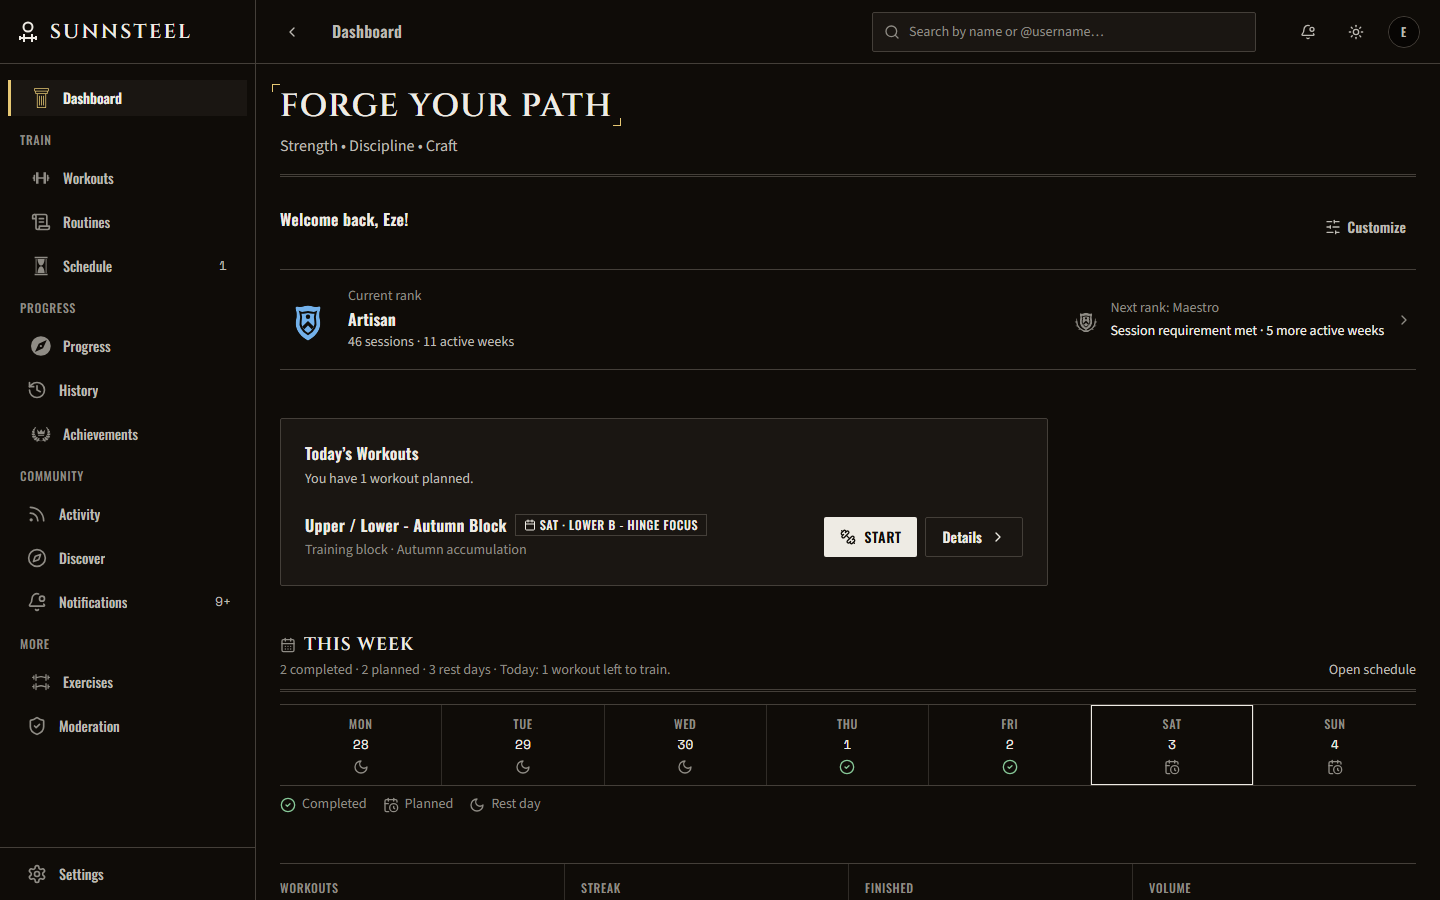
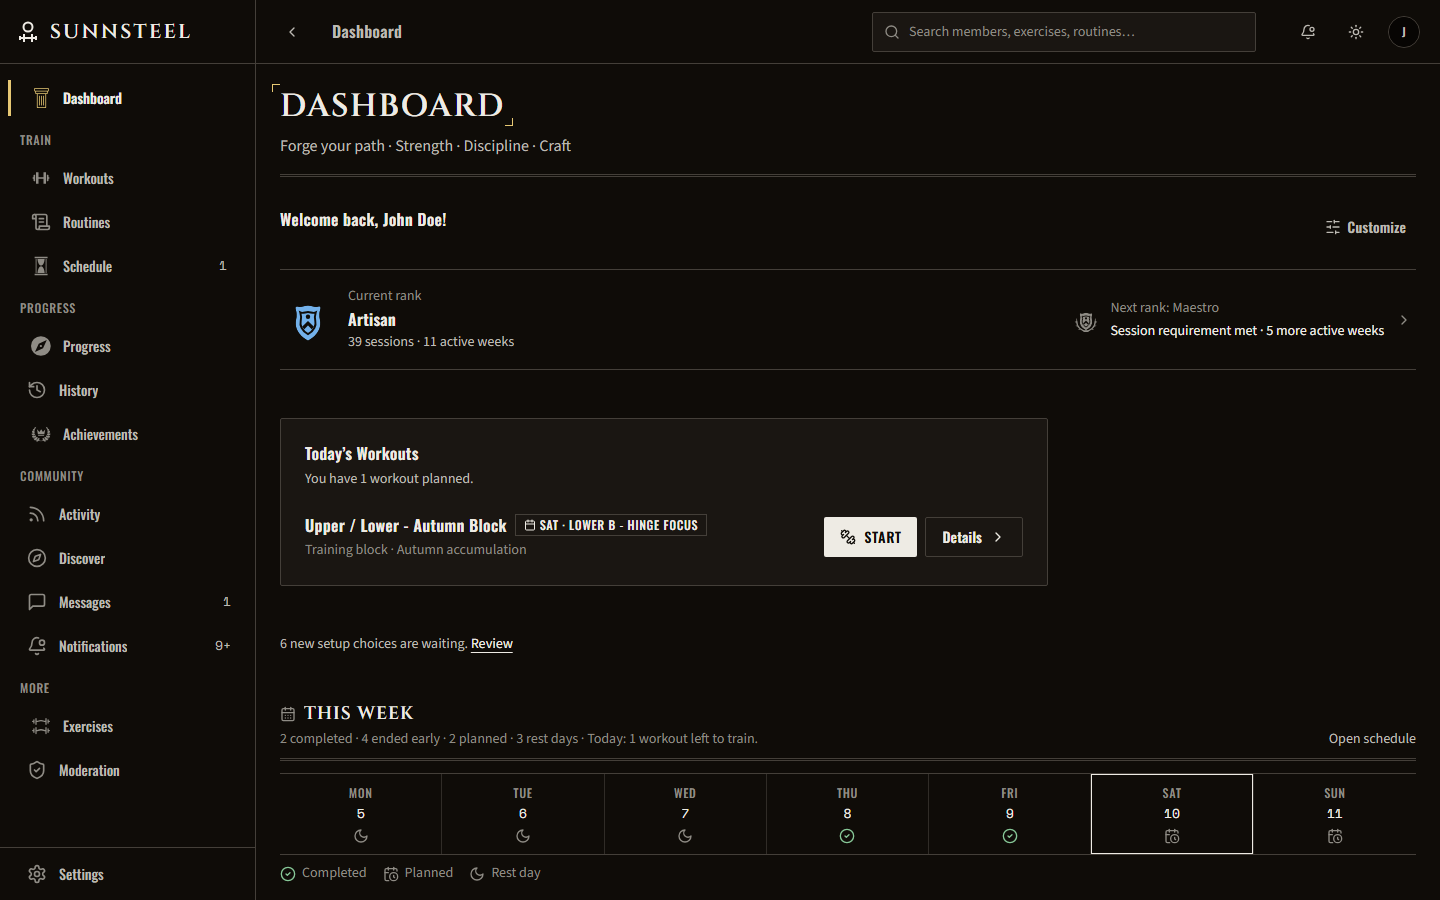
docs(roadmap): ship UX-25 and release its claim; recapture its frames

diff --git a/docs/roadmaps/product-roadmap.md b/docs/roadmaps/product-roadmap.md
@@ -79,7 +79,6 @@ else until it merges, so claims live here, on `main`.
 
 | ID      | Status        | Owner  | Branch / worktree | Claimed    | Repositories |
 | ------- | ------------- | ------ | ----------------- | ---------- | ------------ |
-| UX-25 | `IN_PROGRESS` | Claude | `claude/ux-25` (`.claude-worktrees/ux-25-fe`) | 2026-10-09 | FE |
 
 ## Current product snapshot
 
@@ -689,7 +688,7 @@ languages, and Spanish runs longer.
 | UX-23 | `SHIPPED`     | S    | Compact profile header on a phone | Shipped 2026-10-07, design system [§24.7](../ui-design-system.md). Below a 600px header the rank-decorated profile header is compact: a 64px portrait with its ornament and margins scaled to it, Share as an icon that keeps its accessible name, and on your own profile Share beside the portrait so the counts are the column's last row. The handle and the join date share a line at every width. Measured on the owner's profile at 390: Initiate 344 → 243px up to Laureate 502 → 387px; Artisan, the owner's rank, 424 → 313px. Every rank was checked at 320 and 390 by rewriting the rank in the profile read, with no text or control touching a corner ornament (Artisan and Maestro needed extra room under the counts), plus 768, 1024 and 1440, the light theme and Spanish at 320, and a member's profile at 320. Sweep: `layout profile`, 14/14. **Not changed:** a member's header still wraps Follow, Message, the partner action and the menu onto several rows at 320. **Not verified:** `npm run verify` locally, because the dev server was running; CI runs it on the push. | ACH-11 |
 | UX-24 | `SHIPPED`     | M    | Design foundations from the 2026-10 audit | Shipped 2026-10-08 from the owner-approved [UI/UX audit](../ui-audit-2026-10.md) §11 Phase A. `StatusMark` ([status-mark.tsx](../../components/ui/status-mark.tsx)) states every status as a glyph plus a word, History first; `InlineError` ([inline-error.tsx](../../components/layout/inline-error.tsx)) is the one way a section says a read failed, with Try again, first on the history detail (whose `String(error)` fallback never fired) and the routines list (a hardcoded English "Error:"); the missing `type-body` rank is defined and `type-data-emphatic` retired; the live elapsed time sits in `.duration-slot`; the wizard's day tabs take the §21 look and lose their gradient fades; the select chevron and dialog descriptions use tokens and ranks; 101 unlabelled icons are hidden from assistive technology. Design system §27 "Train focus" is drafted for the owner, and §11.2 and §11.10 match the code. Card variants and a column-header component wait for their first consumers (`LIVE-22`, `UX-25`). | Audit 2026-10 |
 | LIVE-22 | `SHIPPED`     | M    | Train focus on the workout screen | Shipped 2026-10-09 from the owner-approved [UI/UX audit](../ui-audit-2026-10.md) §11 Phase B, under design system §27 "Train focus", now in force with its refinements recorded there. **The current exercise is the one box** (a panel with a 3px `--primary` mark; inside a group the group's rule carries it) and **the current set the one well** with bounded fields; done and upcoming rows are quiet fields that take the cell on focus, and their fills and Remove sit in the "Set N" menu. Exercises other than the current one are folded by default unless begun and unfinished, and one done at load starts folded; the member's own fold or open wins. **The prescription is said once** ([session-focus.ts](../../lib/utils/session-focus.ts): "3 × 6–8 · 57.5 kg · RIR 2 · rest 2:00") over one column header, so a row captions only what differs; below `sm` a row shows only its number. **A planned weight is a suggestion** (owner, 2026-10-08): the placeholder until the set is ticked, which logs it. Fields are never disabled while saving; Enter moves reps → weight → RPE and ticks, and **only a keyboard tick moves focus** to the next set, never a tap. Every field and tick is named by set and exercise. **Progress is one count with a 2px bar**; the elapsed time ticks on its own. **Finish** (owner, 2026-10-08) ends the list with Discard below `md` and sits in the masthead from it, outline until every required set is done; the "Complete all sets" notice is gone. **A superset or circuit is one container** headed with its round, each member naming its position. The glossary moved below the list. Fixed with it: the rest bar, fixed to the viewport, hid its countdown under the sidebar from `md` and is now sticky at the bottom of `<main>`; and under reduced motion `.mark-fill` drew the completion mark on every exercise. **Not met:** the audit's target of the first editable field within 300px at 390×844 -- it is about 440 (from about 510); §27.8 records why. | UX-24, LIVE-21 |
-| UX-25 | `IN_PROGRESS` | M    | Core workflows restructured | Audit §11 Phase C: one filled action per region on Routines, a routine page, Schedule and Workouts; the builder with one inscription, no nested boxes and a column header on set rows; one toggle pattern for filters, ranges and views; mastheads that name the page with the slogan as a subtitle (owner, 2026-10-08). The routine card's always-disabled Completed toggle becomes an Archived status, and the routines list's Recent filter, identical to All, goes (owner, 2026-10-09). | UX-24 |
+| UX-25 | `SHIPPED`     | M    | Core workflows restructured | Shipped 2026-10-10 from the owner-approved [UI/UX audit](../ui-audit-2026-10.md) §11 Phase C, under design system §28 "Core workflows". **One filled control per region, and it is the task**: Create Routine on Routines (a card's Start and Resume are outline and its name opens the routine), the day due today on a routine's page, today's first action on Schedule (narrowing `SCHED-03`'s every-Start-outline), Train another day on Workouts, whose other three buttons became a ruled list of links. **A toggle is not a command**: `ToggleRow`/`ToggleOption` ([toggle-row.tsx](../../components/ui/toggle-row.tsx)) give every in-page choice -- views, ranges, breakdowns, statuses, filters -- §21.3's underline instead of the secondary fill, on eleven screens. **The builder** has one heading (the masthead names the page, the stepper the step) and one box per exercise: the step, the day and each set are ruled, where four boxes nested. **Mastheads name the page** (owner, 2026-10-08): Dashboard, History, Progress, New and Edit routine, the slogan as subtitle. **An archived routine is a status** (owner, 2026-10-09): the disabled Completed toggle and the Recent filter (identical to All) are gone, and Archived replaces Completed everywhere, in ink rather than success. Also: the sidebar's current row has no fill, the bottom bar uses the sidebar's glyphs, Notifications' Today section is translated, and a failed sign-in is a translated warning. The set row's steppers were already phone-only (`TD-50`). | UX-24 |
 | UX-26 | `QUEUED`      | M    | Remaining screens on the shared states | Audit §11 Phase D: History rows as links with one summary line and `StatusMark`, the history error fallback, Progress empty states and heatmap values, Achievements errors, Moderation overflow, public-page spacing and units, Settings save model, and the shared empty, error and loading states everywhere. | UX-24 |
 
 ### Notifications and retention
@@ -1100,6 +1099,7 @@ decision. An ID is never reused.
 | 2026-10-07 | UX-23 | FE `features/profile/profile-view.tsx` (compact portrait, Share beside it, the shared handle line); design system §24.7; scoped sweep `layout profile` 14/14 |
 | 2026-10-08 | UX-24 | FE `components/ui/status-mark.tsx`, `components/layout/inline-error.tsx`, `app/globals.css` (`.type-body`), `components/ui/{tabs,select,dialog,alert-dialog}.tsx`, `features/routines/wizard/BuildDays.tsx`, the icon sweep; design system §27 (draft), §11.2, §11.10; `npm run verify` 1111 tests; full sweep 677/677 in English (in two shards plus reruns: 91 cases blocked by an unseeded account and 2 by database contention passed once rerun) and 203 Spanish cases on the changed routes and suites |
 | 2026-10-09 | LIVE-22 | FE `app/[locale]/(protected)/workouts/sessions/[id]/page.tsx`, `features/workout/{set-log-input,exercise-group,session-header,session-action-card,rest-timer-bar}.tsx`, `hooks/{use-set-log-form,use-collapsible-exercises}.ts`, `lib/utils/session-focus.ts` (+ tests in both languages), `lib/utils/session-progress.utils.ts` (`weightIsSuggestion`), `components/ui/progress.tsx` (`value` reaches the Radix root, so the bar reports `aria-valuenow`), `app/globals.css` (`.mark-current`, `.mark-fill` scoped under reduced motion), `messages/{en,es}/workout.json`, `e2e/portfolio-targets.ts`; design system §27 in force with its record (§27.8); `npm run verify` 1137 tests; full sweep 677/677 in English on the final code (21.9m, 3 workers, no retries); Spanish scoped sweep (session routes, dashboard, progress, dialogs, keyboard focus) 76/85 with every failure the harness measuring before the page had loaded -- the same race failed 7 of 28 session cases on `main` with retries off, and a separate session is fixing the harness; portfolio `live-session`, `live-session-extra-set` and `live-session-set-kinds` recaptured | Built and checked on the John Doe test account against the local stack. Checked in a browser: the keyboard flow (focus to the next set in a single exercise and across a superset's members), an untouched suggestion logged as its weight, the superset container, Spanish at 320 with and without larger controls inside a superset (no clipped field, a typed "102.5" fitting), the 512px column at 768, and the rest bar with the sidebar open and collapsed. **Not verified:** the phone keyboard staying open after a tick on a real iPhone or Android phone, and a screen reader pass; both need a device. Two older defects surfaced in the frames and were fixed here (the rest bar under the sidebar, the reduced-motion completion mark on every exercise). |
+| 2026-10-10 | UX-25 | FE `components/ui/toggle-row.tsx` and its eleven call sites, `features/routines/components/{RoutineCard,RoutineScheduleNote,RoutineDayAccordion}.tsx`, `features/routines/hooks/useRoutineListActions.ts`, `app/[locale]/(protected)/routines/{page,components/WorkoutFilters,new/page,edit/[id]/page}.tsx`, `features/routines/wizard/**`, `app/[locale]/(protected)/workouts/page.tsx`, `features/schedule/schedule-week-view.tsx`, `features/shell/components/{Sidebar,BottomNav}.tsx`, `features/notifications/today-actions.tsx`, the login form, `messages/{en,es}`; design system §28; `npm run verify` 1137 tests; full sweep 677/677 in English and 677/677 in Spanish (2 workers, no retries); 17 portfolio frames recaptured after a re-seed | Checked in a browser on the John Doe test account at 1440 (dark, English) and 390 (light, Spanish): one filled control on each changed page, the toggle rows, the builder's one heading, the Archived status, no overflow. After the re-seed, with a workout due today, Schedule and the routine's page each held exactly one filled control, the Start of that day. Not exercised: a failed sign-in's warning (the sweep covers the page's layout, not the error branch). |
 
 ## Document history
 
@@ -2961,3 +2961,4 @@ decision. An ID is never reused.
 - **2026-10-09 (revision 254):** Claimed `LIVE-22` (frontend). The owner approved design system §27 "Train focus" on 2026-10-08.
 - **2026-10-09 (revision 255):** Shipped `LIVE-22` (train focus on the workout screen) and released its claim; design system §27 is in force.
 - **2026-10-09 (revision 256):** Claimed `UX-25` (frontend), with the owner's decisions: mastheads name the page and keep the slogan as a subtitle, an archived routine shows an Archived status instead of the disabled Completed toggle, and the Recent filter is removed.
+- **2026-10-10 (revision 257):** Shipped `UX-25` (core workflows from the 2026-10 audit) and released its claim; design system §28 is in force.
